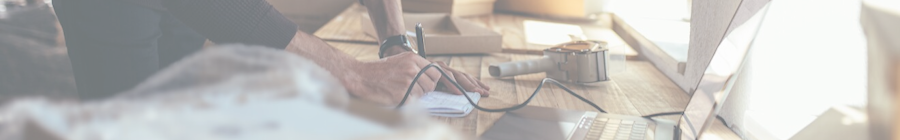
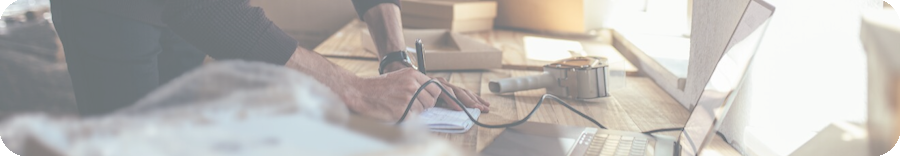
Updating Front Page

diff --git a/src/components/Hero.vue b/src/components/Hero.vue
@@ -1,45 +1,20 @@
 <template>
   <div class="flex flex-col mx-8 lg:mr-8 lg:ml-8 items-center justify-center">
     <div
-      class="bg-[url('assets/hsbbgbanner.png')] w-[900px] text-center justify-center"
+      class="bg-[url('assets/hsbbgbanner.png')] bg-no-repeat w-[900px] text-center justify-center"
     >
-      <p class="font-bold text-4xl font-quest text-[#144C84] mt-8 capitalize">
+      <p class="font-bold text-4xl font-quest text-[#144C84] mt-10 capitalize">
         I.T. SUPPORT
       </p>
       <p
-        class="font-extrabold text-2xl mb-6 font-quest text-[#144C84] capitalize"
+        class="font-extrabold text-2xl mb-14 font-quest text-[#144C84] capitalize"
       >
         for home and small businesses
       </p>
     </div>
   </div>
   <div class="flex flex-col items-center justify-center">
-    <div class="flex w-[900px] max-w-full min-w-0 items-center mt-8">
-      <div class="flex flex-col mx-8 lg:mr-8 lg:ml-0">
-        <p class="text-lg mb-6 font-quest">
-          Kialla Computers is a cutting-edge computer company dedicated to
-          providing a wide range of technology solutions to meet the
-          ever-evolving needs of individuals and businesses. With a passion for
-          innovation and a commitment to excellence, we are your trusted partner
-          in the digital age.
-        </p>
-        <p class="text-lg mb-6 font-quest">
-          At Kialla Computers, we believe that technology should enhance your
-          life and business, not complicate it. We're here to simplify the world
-          of computers and technology, ensuring that you're always connected,
-          secure, and efficient.
-        </p>
-        <p class="text-lg mb-6 font-quest">
-          Contact us today to explore how Kialla Computers can empower your
-          digital world.
-        </p>
-      </div>
-      <img
-        src="../assets/it-support.jpg"
-        class="w-[450px] hidden lg:block mt-10"
-      />
-    </div>
-    <div class="flex felex-col mx-8 lg:mr-8 lg:ml-0">
+    <div class="flex felex-col mx-8 lg:mr-8 lg:ml-0 mt-5">
       <!-- Start Square Appointments Embed code -->
       <a
         target="_top"
@@ -64,6 +39,31 @@
         >Book a Tech</a
       >
       <!-- End Square Appointments Embed code -->
+    </div>
+    <div class="flex w-[900px] max-w-full min-w-0 items-center mt-8">
+      <div class="flex flex-col mx-8 lg:mr-8 lg:ml-0">
+        <p class="text-lg mb-6 font-quest">
+          Kialla Computers is a cutting-edge computer company dedicated to
+          providing a wide range of technology solutions to meet the
+          ever-evolving needs of individuals and businesses. With a passion for
+          innovation and a commitment to excellence, we are your trusted partner
+          in the digital age.
+        </p>
+        <p class="text-lg mb-6 font-quest">
+          At Kialla Computers, we believe that technology should enhance your
+          life and business, not complicate it. We're here to simplify the world
+          of computers and technology, ensuring that you're always connected,
+          secure, and efficient.
+        </p>
+        <p class="text-lg mb-6 font-quest">
+          Contact us today to explore how Kialla Computers can empower your
+          digital world.
+        </p>
+      </div>
+      <img
+        src="../assets/it-support.jpg"
+        class="w-[450px] hidden lg:block mt-10"
+      />
     </div>
 
     <!-- Start Facebook Reviews-->
